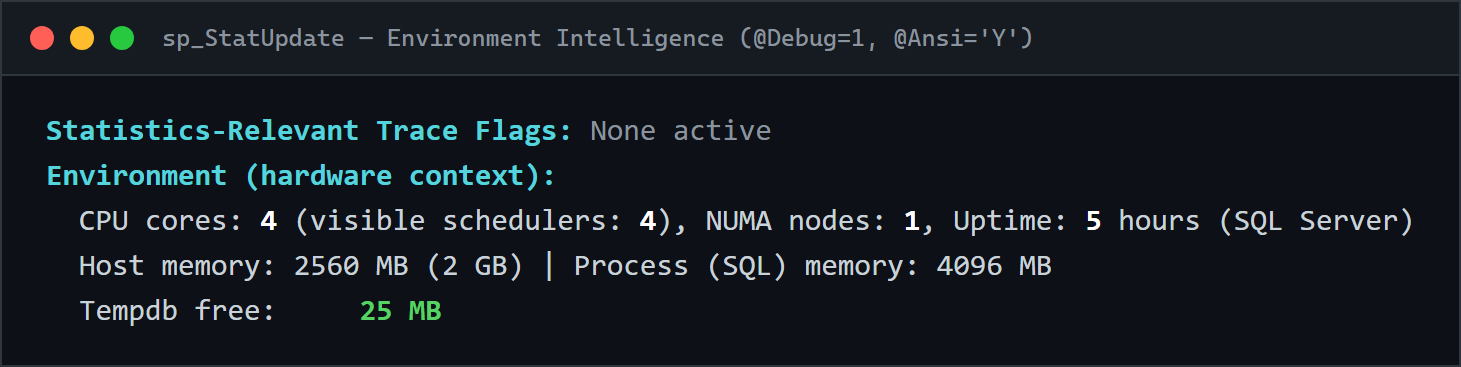
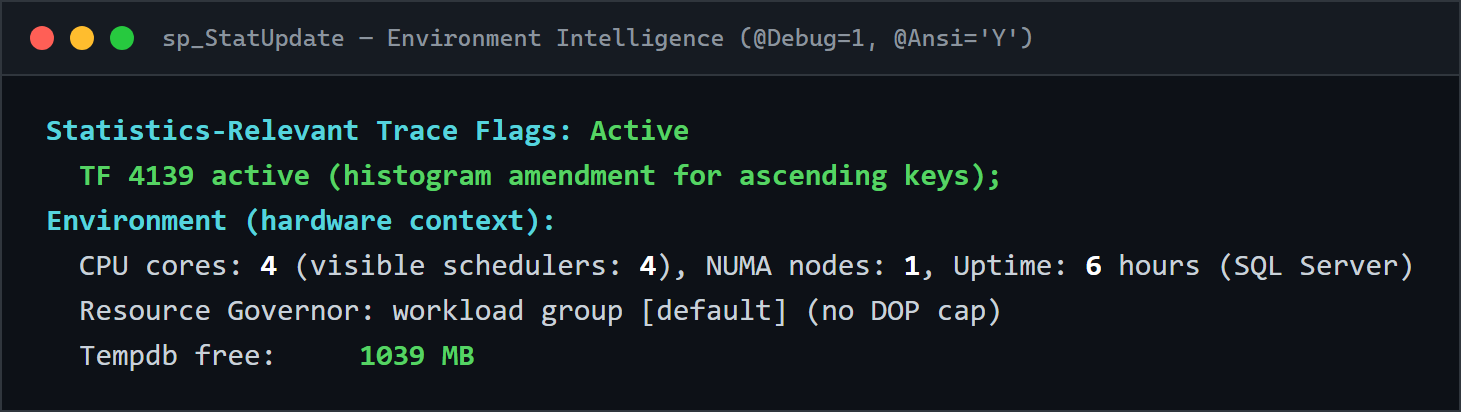
docs: fuller Environment Intelligence screenshot (active trace flags)
Recaptured the @Debug=1 environment panel with a real stats-relevant trace
flag enabled (TF 4139) and a healthier tempdb, so the panel shows active
trace-flag guidance, Resource Governor, and green tempdb headroom instead
of the previous bare "None active" / 25 MB. Still a real @Ansi='Y' capture;
hardware core/memory numbers are the container's actual values (unchanged).

Claude-Session: https://claude.ai/code/session_01Dd4HNMgWi2a9Eb4e44zD61

diff --git a/README.md b/README.md
@@ -20,9 +20,9 @@
 
 ![sp_StatUpdate_Diag Executive Dashboard with @Ansi='Y': A-F letter grades, health scores, and colored health bars per category](assets/demo-dashboard.png)
 
-**It reads the room** -- `@Debug = 1` reports what changes how statistics behave (trace flags, CPU/NUMA/memory, tempdb headroom) and flags what will bite you:
+**It reads the room** -- `@Debug = 1` reports what changes how statistics behave: active stats-relevant trace flags (with guidance), CPU/NUMA, Resource Governor, and tempdb headroom -- and flags what will bite you:
 
-![sp_StatUpdate Environment Intelligence at @Debug=1, @Ansi='Y': trace flags, CPU/NUMA/memory, and tempdb headroom](assets/demo-environment.png)
+![sp_StatUpdate Environment Intelligence at @Debug=1, @Ansi='Y': active trace flags with guidance, CPU/NUMA, Resource Governor, and tempdb headroom](assets/demo-environment.png)
 
 **It doesn't just diagnose -- it prescribes.** Copy-paste the EXEC it built for *your* server:
 
